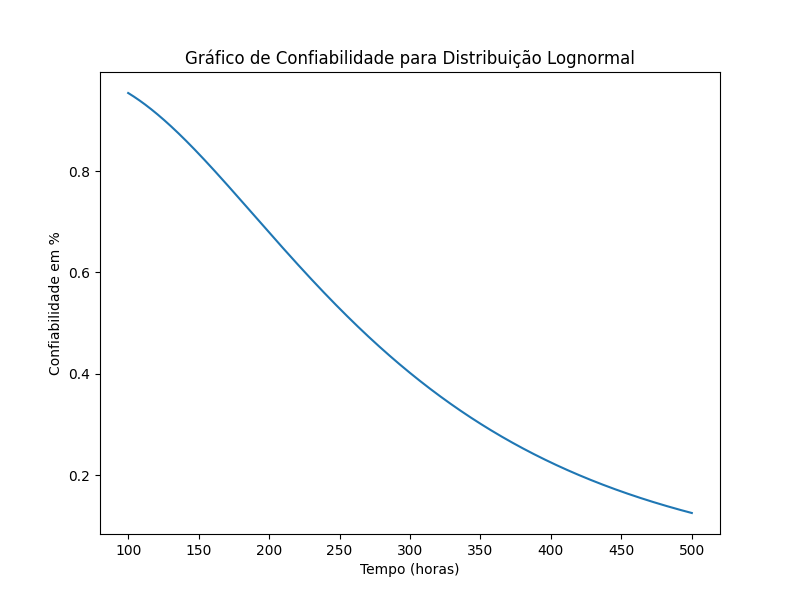
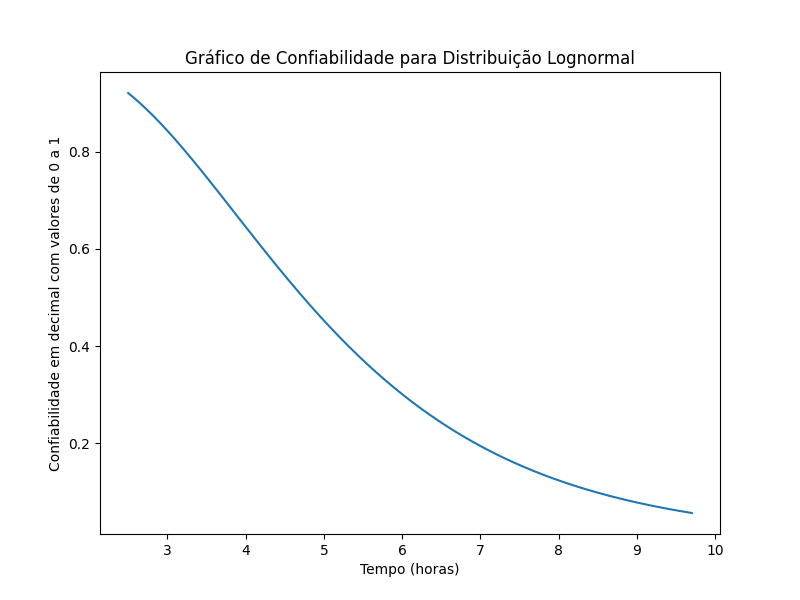
Add time unit to analysis and add % validation to input field

diff --git a/view/confiability_view.py b/view/confiability_view.py
@@ -1,13 +1,32 @@
 import PyQt5.QtWidgets as qtw
 import PyQt5.QtGui as qtg
-from PyQt5.QtCore import QSize
+import PyQt5.QtCore as QtCore
 
-from PyQt5 import QtCore, QtGui, QtWidgets
+class PercentValidator(qtg.QValidator):
+    def validate(self, input, pos):
+        # Remove the '%' sign to validate the number
+        if input.endswith('%'):
+            input = input[:-1]
 
-# from view_settings import ViewSettings
+        if input == '':
+            return qtg.QValidator.Intermediate, input, pos
+
+        try:
+            value = float(input)
+            if 0 <= value <= 100:
+                return qtg.QValidator.Acceptable, input + '%', pos
+            else:
+                return qtg.QValidator.Invalid, input, pos
+        except ValueError:
+            return qtg.QValidator.Invalid, input, pos
+
+    def fixup(self, input):
+        # Add the '%' sign if it's missing
+        if not input.endswith('%'):
+            return input + '%'
+        return input
 
 class ConfiabilityView(qtw.QWidget):
-
     def __init__(self):
         super().__init__()
         self.setWindowTitle('Análise de Confiabilidade')
@@ -26,7 +45,7 @@ class ConfiabilityView(qtw.QWidget):
         inputLabel.setStyleSheet("font-size: 16px; color: #000;")
         grid.addWidget(inputLabel, 0, 0, 1, 2)  # Place the label above the input box
         self.inputBox = qtw.QLineEdit()
-        self.inputBox.setValidator(qtg.QDoubleValidator(0.0, 100.0, 2))
+        self.inputBox.setValidator(PercentValidator())
         self.inputBox.setPlaceholderText("Qual a probabilidade mínima que você deseja para a confiabilidade")
         self.inputBox.setStyleSheet("font-size: 18px; padding: 10px; color:#000")
         grid.addWidget(self.inputBox, 1, 0, 1, 2)  # Place the input box below the label
@@ -41,12 +60,18 @@ class ConfiabilityView(qtw.QWidget):
         grid.addWidget(self.responseOutput, 4, 0, 1, 2)  # Place the input box below the label
 
         grid.setRowStretch(5, 1)  # Add an empty space after the input box
-        
+
         self.registerButton = qtw.QPushButton('Analisar')
         self.registerButton.setStyleSheet("font-size: 18px; padding: 10px; background-color: #5DCFE3; color: #fff;")
         grid.addWidget(self.registerButton, 6, 0, 1, 2)
 
         grid.setRowStretch(7, 1)
-    
+
     def show(self):
         super().showMaximized()
+
+if __name__ == '__main__':
+    app = qtw.QApplication([])
+    mainWin = ConfiabilityView()
+    mainWin.show()
+    app.exec_()

diff --git a/controller/controller.py b/controller/controller.py
@@ -25,6 +25,7 @@ class Controller:
         self.beta = None
         self.mu = None
         self.sigma = None
+        self.tbf_unit = None
         
 
     def get_component_id(self):
@@ -78,7 +79,7 @@ class Controller:
             self.aderency_view.show()
 
     def run_test_and_show_results(self):
-        time_between_fails, tbf_unit = self.model.select_tbf_data(
+        time_between_fails, self.tbf_unit = self.model.select_tbf_data(
             self.get_component_id()
         )
 
@@ -88,14 +89,14 @@ class Controller:
             return
 
         # Verificar se a unidade de tempo está presente
-        if tbf_unit is None:
+        if self.tbf_unit is None:
             print("Não há unidade de tempo entre falhas disponível.")
             return
 
-        print("TIME BETWEEN FAILS:", time_between_fails, "TBF UNIT:", tbf_unit)
+        print("TIME BETWEEN FAILS:", time_between_fails, "TBF UNIT:", self.tbf_unit)
 
         fail_times = [float(time) for time in time_between_fails]
-        dist, self.best_distribution = compare_distributions(fail_times, tbf_unit)
+        dist, self.best_distribution = compare_distributions(fail_times, self.tbf_unit)
         if self.best_distribution == "Weibull":
             self.alpha = dist.alpha
             self.beta = dist.beta
@@ -118,8 +119,11 @@ class Controller:
         self.confiability_view.registerButton.clicked.connect(self.calculate_time_from_confidence)
 
     def calculate_time_from_confidence(self):
-        confidence = float(self.confiability_view.inputBox.text())
-        confidence = confidence/100
+        confidence_text = self.confiability_view.inputBox.text()
+        if confidence_text.endswith('%'):
+            confidence_text = confidence_text[:-1]  # Remove the '%' symbol
+        confidence = float(confidence_text)
+        confidence = confidence / 100
 
         print(f" Sigma: {self.sigma}")
 
@@ -128,5 +132,5 @@ class Controller:
         else:
             time_for_reliability = calculate_time_lognormal(self.mu, self.sigma, confidence)
 
-        self.confiability_view.responseOutput.setText(f"Tempo correspondente: {time_for_reliability:.2f}")
-        print(f"Tempo correspondente: {time_for_reliability:.2f}")
+        self.confiability_view.responseOutput.setText(f"Tempo correspondente: {time_for_reliability:.2f} {self.tbf_unit}")
+        print(f"Tempo correspondente: {time_for_reliability:.2f} {self.tbf_unit}")

diff --git a/controller/testeDeAderenciaFinal.py b/controller/testeDeAderenciaFinal.py
@@ -115,7 +115,7 @@ def compare_distributions(fail_times, tbf_unit):
     plt.figure(figsize=(8, 6))
     plt.plot(times, reliability, label=best_distribution)
     plt.xlabel(f"Tempo ({tbf_unit})")
-    plt.ylabel("Confiabilidade em %")
+    plt.ylabel("Confiabilidade em decimal com valores de 0 a 1")
     plt.title(f"Gráfico de Confiabilidade para Distribuição {best_distribution}")
     plt.savefig("best_distribution.png")
 
